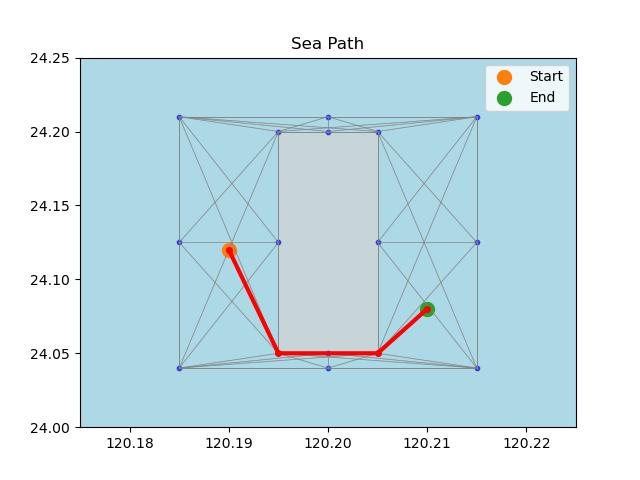
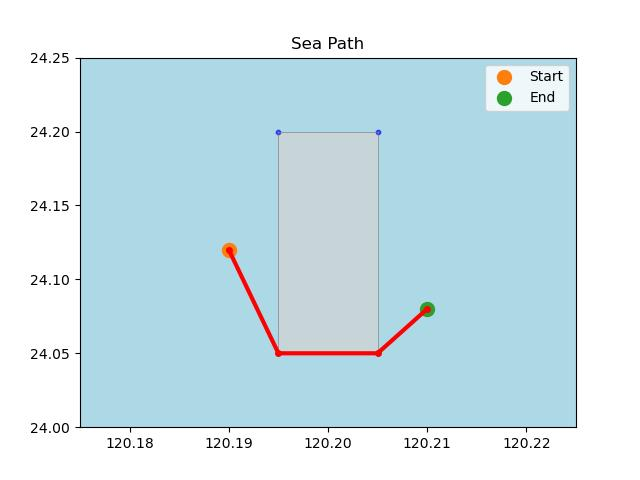
Update sea_path graph building

diff --git a/src/seakrige/sea_path.py b/src/seakrige/sea_path.py
@@ -102,40 +102,12 @@ class SeaPath:
         if self.is_multipolygon:
             for geom in self.obs.geoms:
                 verts.extend(list(geom.exterior.coords[:-1]))
-                coords = list(geom.exterior.coords)
-                for i in range(len(coords) - 1):
-                    mid = (
-                        (coords[i][0] + coords[i + 1][0]) / 2,
-                        (coords[i][1] + coords[i + 1][1]) / 2,
-                    )
-                    verts.append(mid)
                 for interior in geom.interiors:
                     verts.extend(list(interior.coords[:-1]))
         else:
             verts.extend(list(self.obs.exterior.coords[:-1]))
-            coords = list(self.obs.exterior.coords)
-            for i in range(len(coords) - 1):
-                mid = (
-                    (coords[i][0] + coords[i + 1][0]) / 2,
-                    (coords[i][1] + coords[i + 1][1]) / 2,
-                )
-                verts.append(mid)
             for interior in self.obs.interiors:
                 verts.extend(list(interior.coords[:-1]))
-
-        xmin, ymin, xmax, ymax = self.bounds
-        margin = self.config.BOUNDARY_MARGIN
-        boundary_points = [
-            (xmin - margin, ymin - margin),
-            (xmax + margin, ymin - margin),
-            (xmax + margin, ymax + margin),
-            (xmin - margin, ymax + margin),
-            (xmin - margin, (ymin + ymax) / 2),
-            (xmax + margin, (ymin + ymax) / 2),
-            ((xmin + xmax) / 2, ymin - margin),
-            ((xmin + xmax) / 2, ymax + margin),
-        ]
-        verts.extend(boundary_points)
 
         self.vertices = np.array(verts)
 
